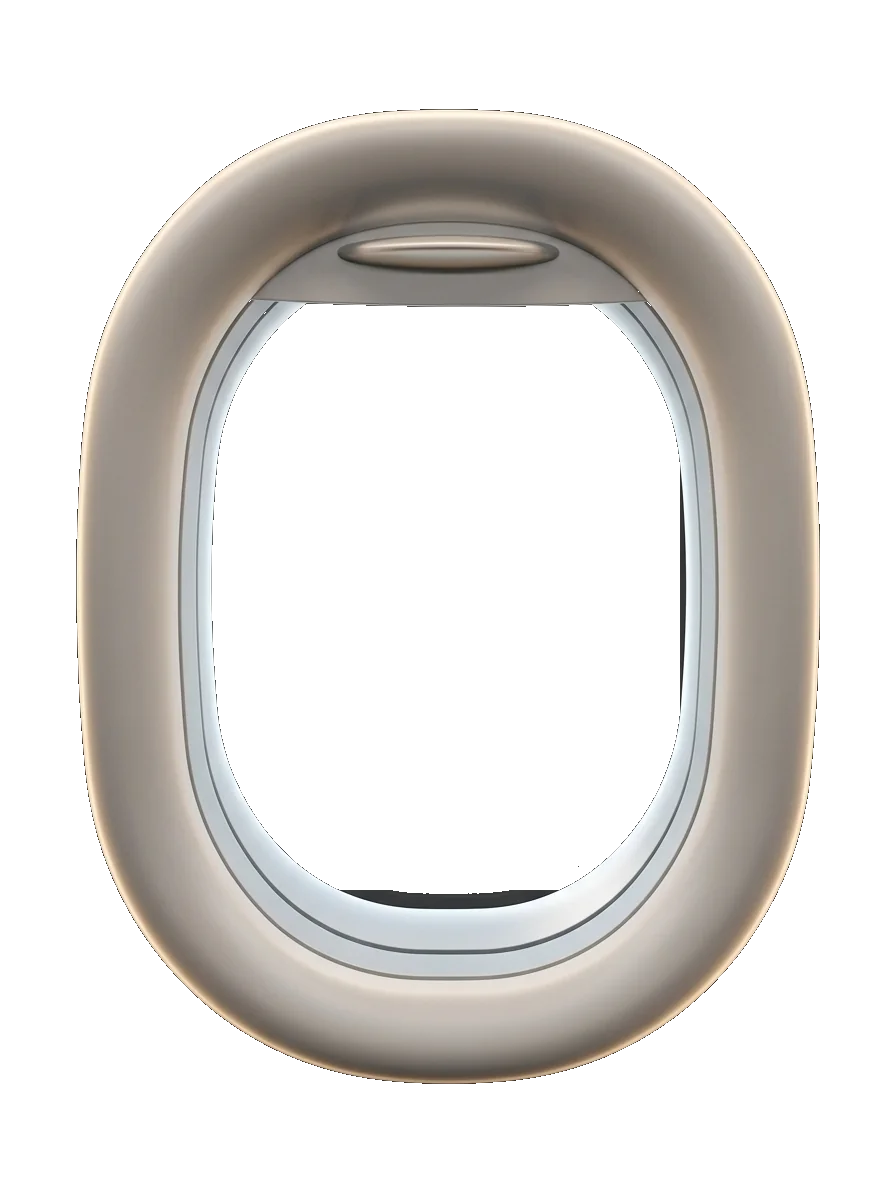
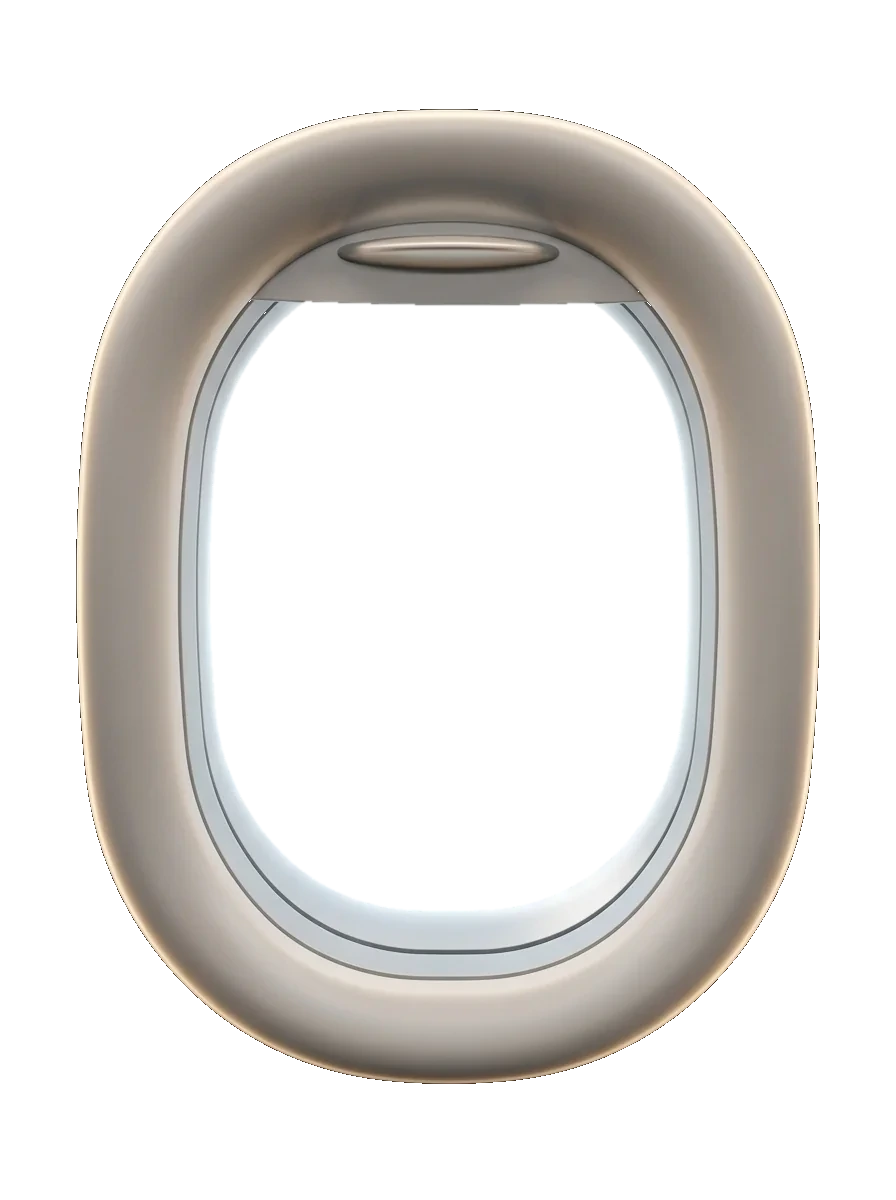
fix layout2

Changed region(s): [[0.375, 0.74, 0.625, 0.7708], [0.75, 0.4008, 0.7812, 0.5858]]

diff --git a/src/app/features/landing/landing.component.scss b/src/app/features/landing/landing.component.scss
@@ -501,7 +501,7 @@
         justify-content: space-between;
         align-items: center;
         text-align: center;
-        padding: calc(4.2rem + env(safe-area-inset-top, 0px)) 1.25rem calc(8rem + env(safe-area-inset-bottom, 0px));
+        padding: calc(4.2rem + env(safe-area-inset-top, 0px)) 1.25rem calc(8rem + env(safe-area-inset-bottom, 0px) + var(--vh-gap));
       }
 
       .ascent__title-left,
@@ -559,7 +559,7 @@
       }
 
       .ascent__cards {
-        bottom: calc(1rem + env(safe-area-inset-bottom, 0px));
+        bottom: calc(1rem + env(safe-area-inset-bottom, 0px) + var(--vh-gap));
         gap: 0.5rem;
         padding-inline: 1.25rem;
         justify-content: center;
@@ -658,15 +658,31 @@
   // Layer 1: Bright Blue Sky & Clouds behind window aperture
   &__sky-layer {
     position: absolute;
-    top: 25.5%;
-    left: 23.5%;
-    right: 23.5%;
-    bottom: 25.5%;
-    border-radius: 46% 46% 48% 48% / 42% 42% 48% 48%;
+    // calibrate visually: temporarily set .hero__window-img opacity to .4 and outline the sky layer;
+    // the outline must sit fully inside the beige ring, outside the aperture and not touching the frame's outer edge.
+    top: 15%;
+    left: 13%;
+    right: 13%;
+    bottom: 11%;
+    border-radius: 38% / 30%;
     overflow: hidden;
     z-index: 1;
     box-shadow: inset 0 0 24px rgba(0, 0, 0, 0.45);
-    // اتشال: backface-visibility و transform: translateZ(0)
+
+    // Glass + lighting composite — NO filter/backdrop-filter/mix-blend-mode (would hurt perf at 9x scale)
+    &::after {
+      content: '';
+      position: absolute;
+      inset: 0;
+      border-radius: inherit;
+      pointer-events: none;
+      z-index: 2;
+      background:
+        linear-gradient(180deg, rgba(0, 0, 0, .38) 0%, transparent 30%),
+        linear-gradient(118deg, rgba(255, 255, 255, .20) 0%, transparent 30%, transparent 72%, rgba(255, 255, 255, .07) 100%),
+        linear-gradient(0deg, rgba(255, 224, 185, .20) 0%, transparent 38%),
+        radial-gradient(ellipse at 50% 45%, transparent 60%, rgba(6, 12, 28, .42) 100%);
+    }
   }
 
 
@@ -675,8 +691,13 @@
     height: 100%;
     object-fit: cover;
     object-position: center 30%;
-    transform: scale(1.12);
-    // اتشال: backface-visibility
+    // scale(1.12) ensures edges never show during drift; keep it as the base
+    animation: sky-drift 28s ease-in-out infinite alternate;
+  }
+
+  @keyframes sky-drift {
+    from { transform: scale(1.12) translate3d(-1.5%, 0, 0); }
+    to   { transform: scale(1.12) translate3d( 1.5%, 0, 0); }
   }
 
   &__sky-watermark {
@@ -685,14 +706,15 @@
     left: 50%;
     transform: translate(-50%, -50%);
     font-family: 'Space Grotesk', sans-serif;
-    font-size: clamp(1rem, 1.5vw, 1.35rem);
+    font-size: clamp(0.8rem, 1.2vw, 1.08rem); // ~80% of former size
     font-weight: 500;
     letter-spacing: 0.16em;
-    color: rgba(255, 255, 255, 0.92);
+    color: rgba(255, 255, 255, 0.6);
     text-shadow: 0 2px 12px rgba(0, 0, 0, 0.35);
     pointer-events: none;
     white-space: nowrap;
     user-select: none;
+    z-index: 3; // above the ::after overlay on __sky-layer
   }
 
   // Layer 2: Transparent High-Res Airplane Window Frame
@@ -920,7 +942,7 @@
       left: 0;
       right: 0;
       width: auto;
-      bottom: calc(1.25rem + env(safe-area-inset-bottom, 0px));
+      bottom: calc(1.25rem + env(safe-area-inset-bottom, 0px) + var(--vh-gap));
       padding-inline: 1.25rem;
     }
 
@@ -964,6 +986,16 @@
 
 .hero--active .hero__window-ring {
   animation-play-state: paused;
+}
+
+.hero--active .hero__sky-img {
+  animation-play-state: paused;
+}
+
+@media (prefers-reduced-motion: reduce) {
+  .hero__sky-img {
+    animation: none;
+  }
 }
 
 
@@ -1324,7 +1356,7 @@
 .ascent__specs-left {
   position: absolute;
   left: clamp(2rem, 5vw, 5rem);
-  bottom: clamp(4rem, 10vh, 8rem);
+  bottom: calc(clamp(4rem, 10vh, 8rem) + var(--vh-gap));
   z-index: 7;
   width: clamp(200px, 28vw, 380px);
   display: flex;
@@ -1334,7 +1366,7 @@
   @media (max-width: 799px) {
     width: 46%;
     left: 3vw;
-    bottom: 6rem;
+    bottom: calc(6rem + var(--vh-gap));
   }
 }
 
@@ -1342,7 +1374,7 @@
 .ascent__specs-right {
   position: absolute;
   right: clamp(2rem, 5vw, 5rem);
-  bottom: clamp(4rem, 10vh, 8rem);
+  bottom: calc(clamp(4rem, 10vh, 8rem) + var(--vh-gap));
   z-index: 7;
   width: clamp(200px, 28vw, 380px);
   display: flex;
@@ -1352,7 +1384,7 @@
   @media (max-width: 799px) {
     width: 46%;
     right: 3vw;
-    bottom: 6rem;
+    bottom: calc(6rem + var(--vh-gap));
   }
 }
 
@@ -1395,7 +1427,7 @@
 // ── Layer 8: Book CTA pill ────────────────────────────────────────────────────
 .ascent__cta-btn {
   position: absolute;
-  bottom: clamp(1.5rem, 3vh, 3rem);
+  bottom: calc(clamp(1.5rem, 3vh, 3rem) + var(--vh-gap));
   left: 0;
   right: 0;
   margin: auto; // center horizontally — never use CSS translateX (conflicts GSAP)

diff --git a/src/app/features/landing/landing.component.ts b/src/app/features/landing/landing.component.ts
@@ -214,7 +214,9 @@ export class LandingComponent implements AfterViewInit, OnDestroy {
                         .filter(Boolean) as HTMLElement[];
     const nav       = this.navbar?.nativeElement;
  
-    if (jetWrap) gsap.set(jetWrap, { xPercent: -50, yPercent: -50 });
+    const jetStartY = isMobile ? 40 : 100;  // desktop: fully below the bottom edge
+    const jetEndY   = isMobile ? -50 : 50;  // desktop: half of the car below the bottom edge
+    if (jetWrap) gsap.set(jetWrap, { xPercent: -50, yPercent: isMobile ? -50 : jetStartY });
     gsap.set(wrap, { x: 0, y: 0, transformOrigin: 'center center' });
  
     // CHANGED: the zoom is computed from the real aperture size instead of a fixed 9.
@@ -224,7 +226,7 @@ export class LandingComponent implements AfterViewInit, OnDestroy {
     const zoomTarget = (): number => {
       if (!sky || !sky.offsetWidth || !sky.offsetHeight) return isMobile ? 6 : 9;
       const cover = Math.max(window.innerWidth / sky.offsetWidth, window.innerHeight / sky.offsetHeight);
-      return cover * 1.45; // the aperture is an ellipse: x1.45 so the screen corners are covered too
+      return cover * 1.6; // the aperture is an ellipse: x1.6 so the screen corners are covered too (enlarged sky layer)
     };
  
 
@@ -286,8 +288,8 @@ export class LandingComponent implements AfterViewInit, OnDestroy {
     }
     if (jetWrap) {
       tl.fromTo(jetWrap,
-        { xPercent: -50, yPercent: 40, scale: 0.8 },
-        { xPercent: -50, yPercent: -50, scale: 1, ease: 'power2.out', duration: 0.38 }, 0.52);
+        { xPercent: -50, yPercent: jetStartY, scale: 0.8 },
+        { xPercent: -50, yPercent: jetEndY, scale: 1, ease: 'power2.out', duration: 0.38 }, 0.52);
     }
     if (cards.length) {
       tl.fromTo(cards, { y: 35, opacity: 0 },
